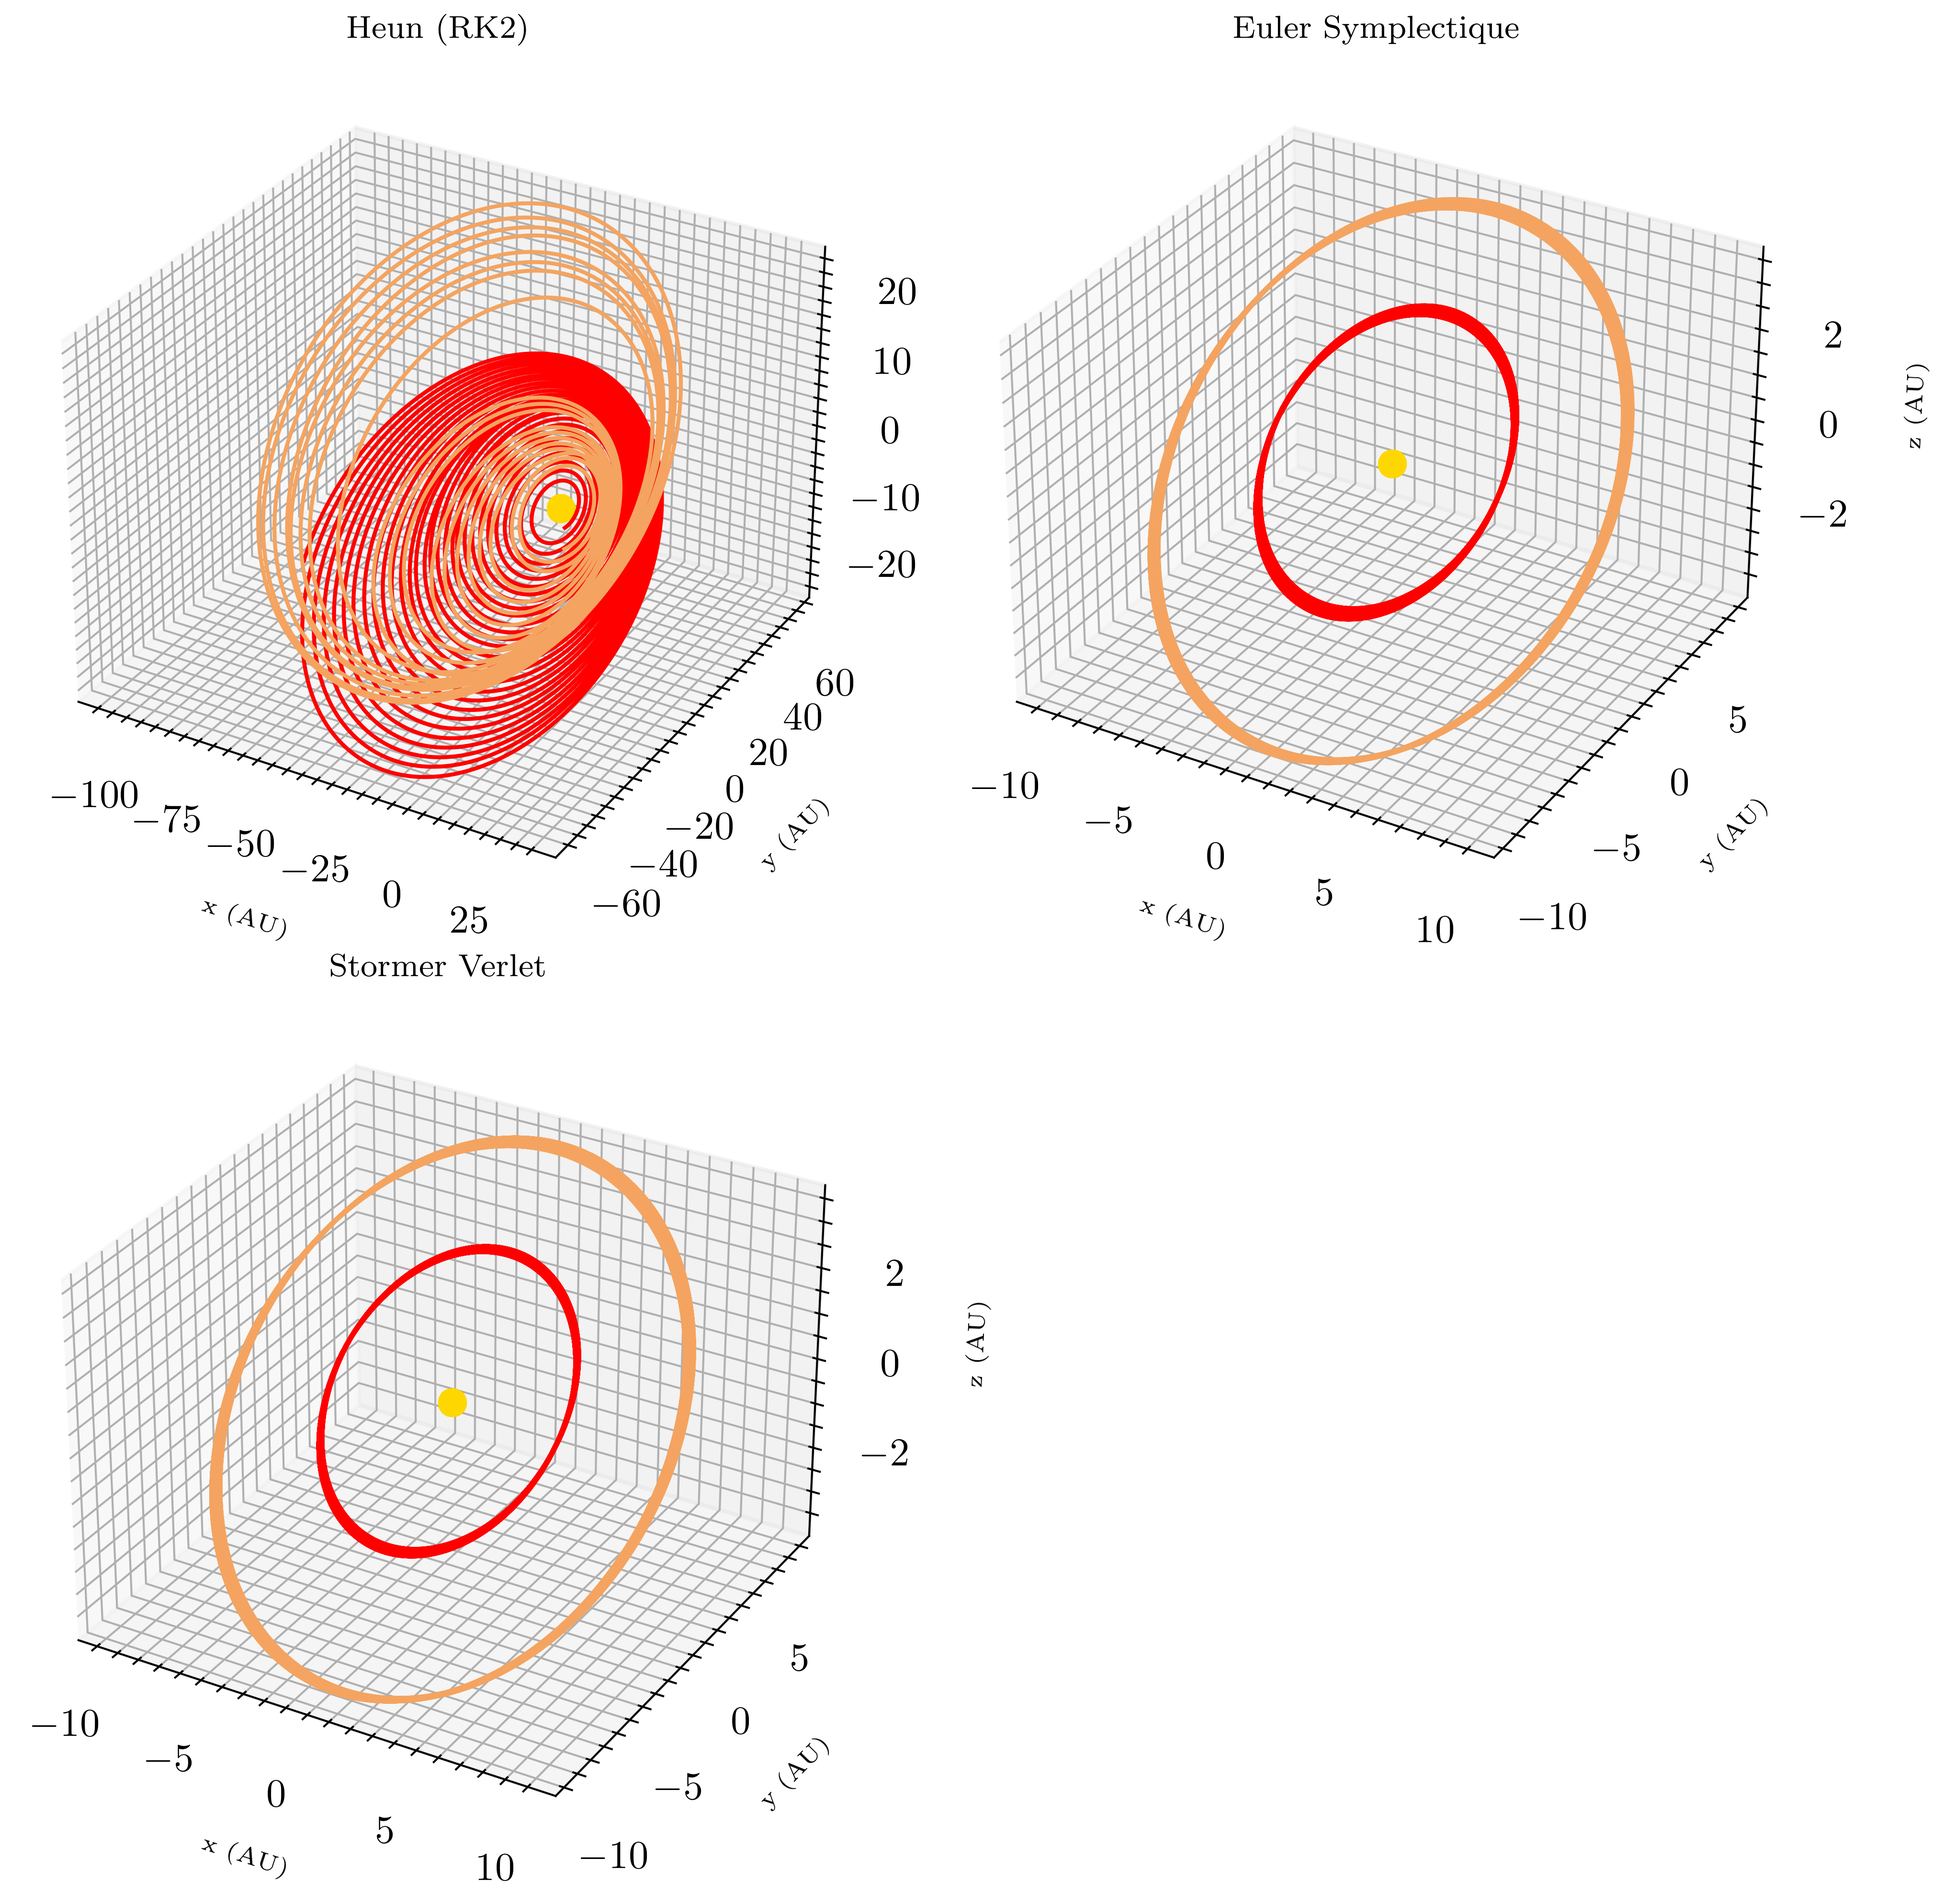
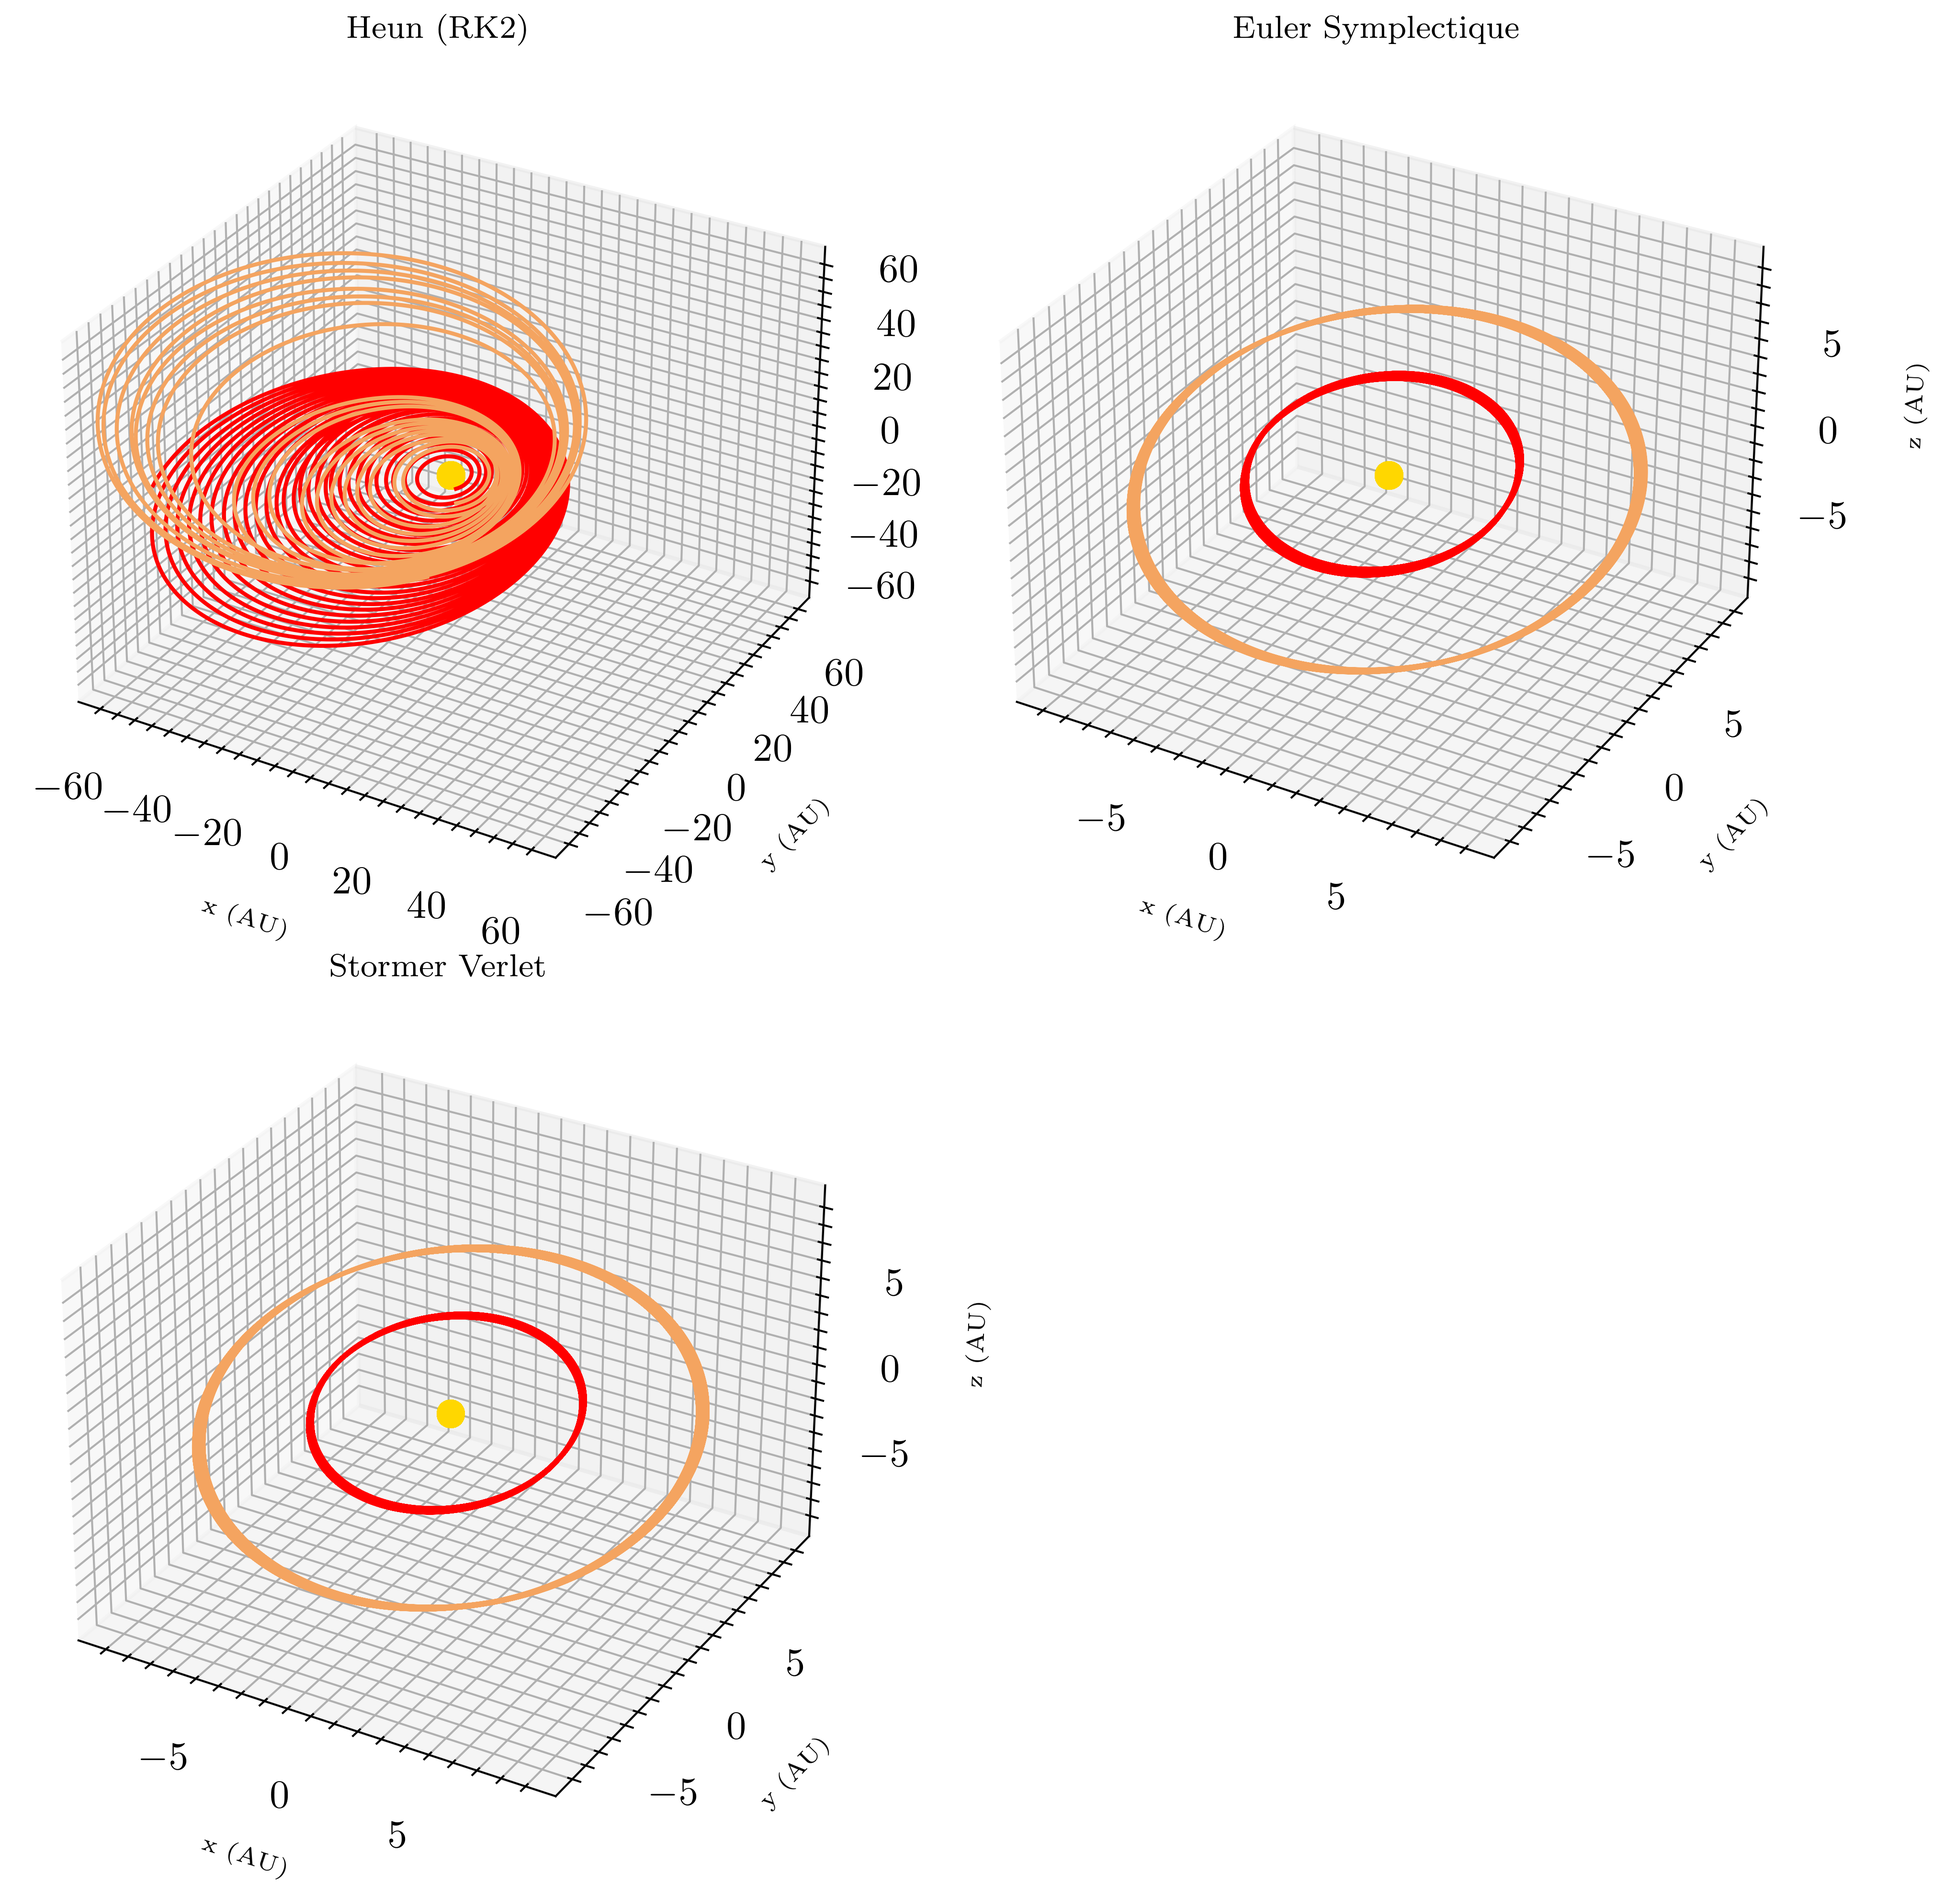
update

diff --git a/src/nbody.py b/src/nbody.py
@@ -132,6 +132,11 @@ class NBodySimulation():
       ax.set_ylabel("y (AU)")
       #ax.legend()
 
+      max_range = self.limit_plot(result["q"])
+
+      ax.set_xlim(-max_range, max_range)
+      ax.set_ylim(-max_range, max_range)
+
     plt.tight_layout()
 
     if self.options["save"]:
@@ -162,6 +167,13 @@ class NBodySimulation():
       ax.set_ylabel("y (AU)", fontsize=6)
       ax.set_zlabel("z (AU)", fontsize=6)
 
+      max_range = self.limit_plot(result["q"])
+
+      ax.set_xlim(-max_range, max_range)
+      ax.set_ylim(-max_range, max_range)
+      ax.set_zlim(-max_range, max_range)
+
+
     plt.tight_layout()
 
     if self.options["save"]:
@@ -183,7 +195,6 @@ class NBodySimulation():
       ax.set_xlabel("Temps [années]")
       ax.set_ylabel("Energie totale [$kJ$]")
       ax.legend()
-
 
     if self.options["save"]:
       self.fig.savefig(f"{self.figures_dir}/orbital-energy.pdf")
